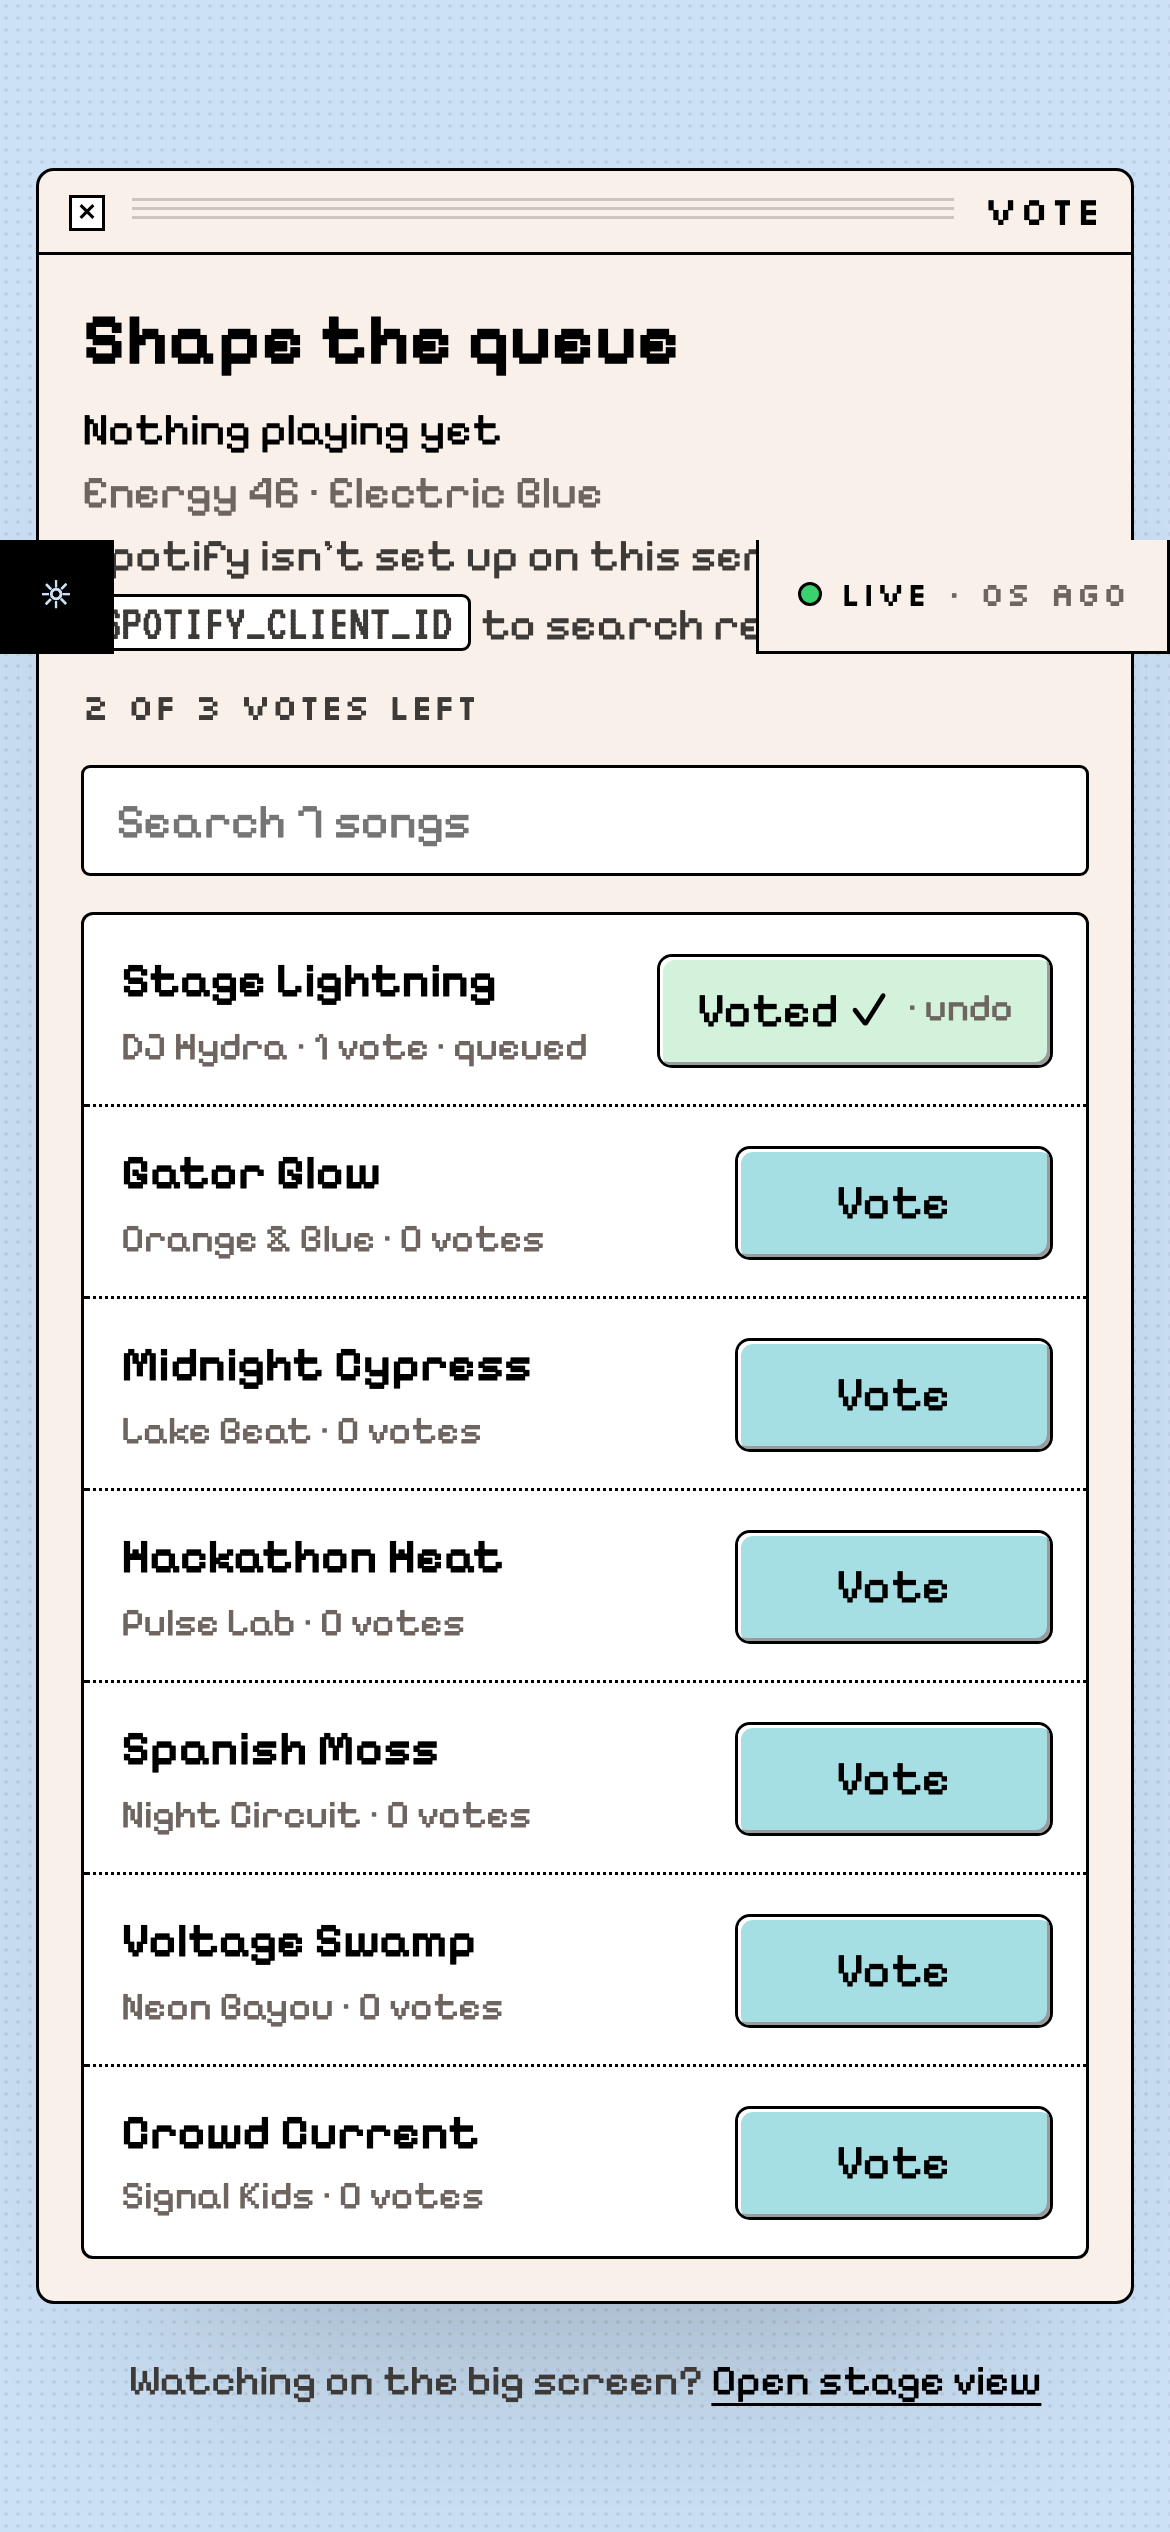
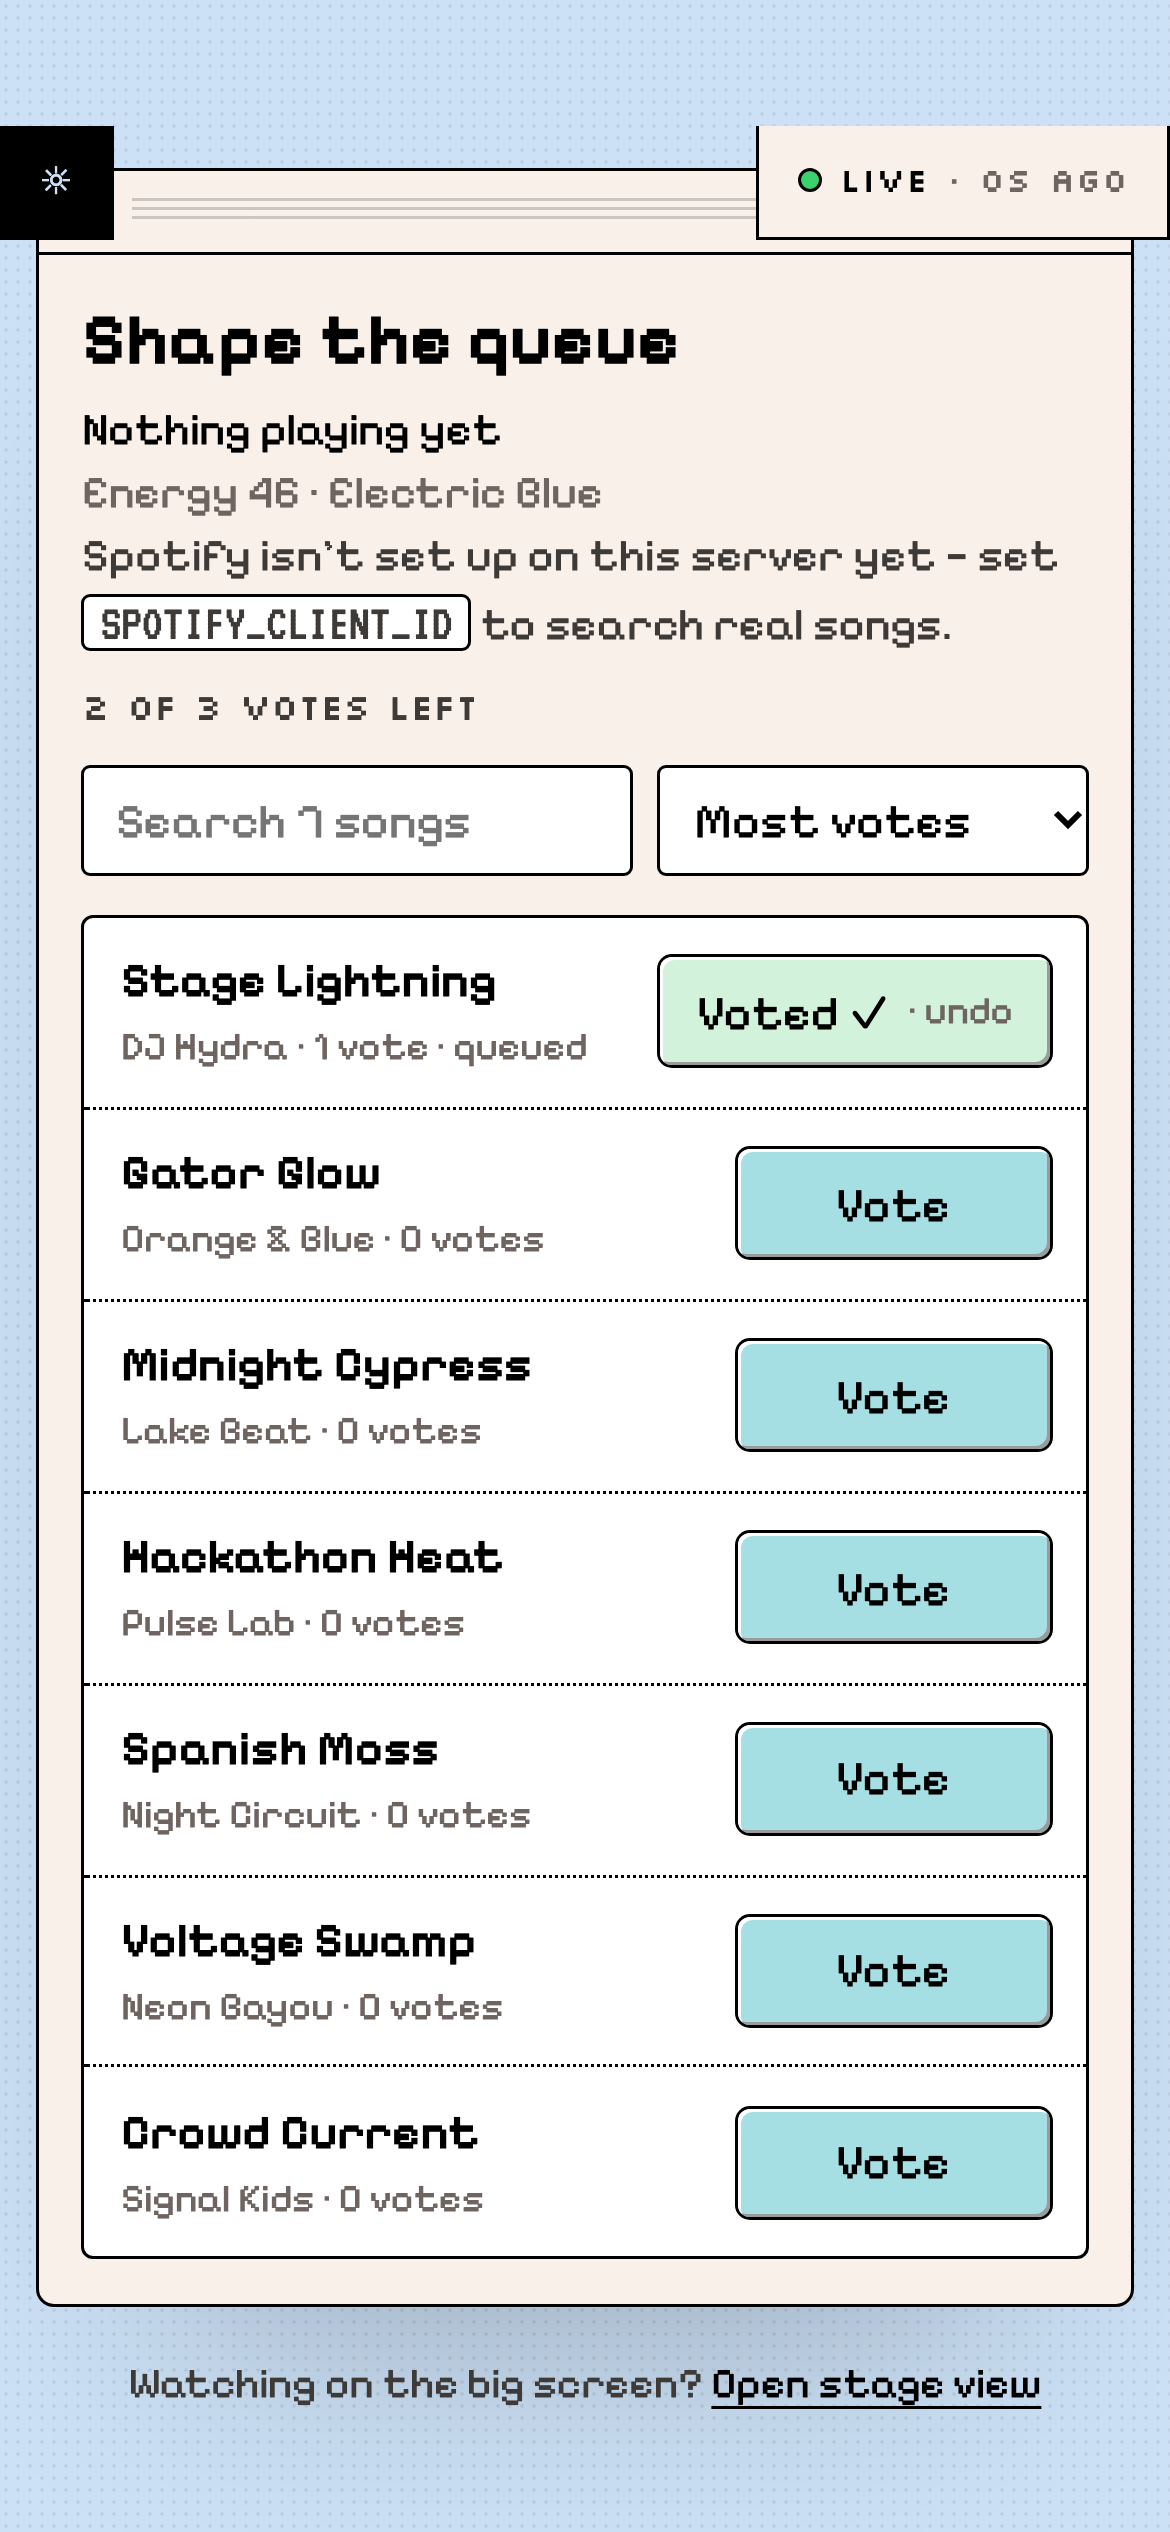
Projector: empty song bar when idle; attendee sort
- Big screen always shows the song bar and timer (0:00 / 0:00 when nothing
  is playing), in both layouts.
- Attendee vote list: Sort menu (most votes, title, artist, genre, newest)
  beside the search; the playing song stays on top.

diff --git a/apps/web/src/pages/JoinPage.tsx b/apps/web/src/pages/JoinPage.tsx
@@ -70,7 +70,8 @@ export function JoinPage() {
   const [search, setSearch] = useState("");
   const [page, setPage] = useState(0);
   const allTracks = state?.tracks ?? [];
-  const matching = filterAndRank(allTracks, search);
+  const [sort, setSort] = useState<VoteSort>("votes");
+  const matching = filterAndRank(allTracks, search, sort);
   const pages = Math.max(1, Math.ceil(matching.length / PAGE_SIZE));
   const pageIndex = Math.min(page, pages - 1);
   const tracks = matching.slice(pageIndex * PAGE_SIZE, (pageIndex + 1) * PAGE_SIZE);
@@ -211,18 +212,37 @@ export function JoinPage() {
           </p>
 
           {allTracks.length > 0 && (
-            <label className="vote-search">
-              <span className="visually-hidden">Search songs</span>
-              <input
-                type="search"
-                value={search}
-                onChange={(e) => {
-                  setSearch(e.target.value);
-                  setPage(0);
-                }}
-                placeholder={`Search ${allTracks.length} songs`}
-              />
-            </label>
+            <div className="vote-tools">
+              <label className="vote-search">
+                <span className="visually-hidden">Search songs</span>
+                <input
+                  type="search"
+                  value={search}
+                  onChange={(e) => {
+                    setSearch(e.target.value);
+                    setPage(0);
+                  }}
+                  placeholder={`Search ${allTracks.length} songs`}
+                />
+              </label>
+              <label className="vote-sort">
+                <span className="visually-hidden">Sort songs</span>
+                <select
+                  value={sort}
+                  onChange={(e) => {
+                    setSort(e.target.value as VoteSort);
+                    setPage(0);
+                  }}
+                  aria-label="Sort songs"
+                >
+                  {(Object.keys(VOTE_SORT_LABELS) as VoteSort[]).map((k) => (
+                    <option key={k} value={k}>
+                      {VOTE_SORT_LABELS[k]}
+                    </option>
+                  ))}
+                </select>
+              </label>
+            </div>
           )}
 
           <ul className="track-list panel">
@@ -349,24 +369,43 @@ function saveJoinedRun(sessionCode: string, run: number) {
 /** Songs per page in the attendee's vote list. */
 export const PAGE_SIZE = 15;
 
+export type VoteSort = "votes" | "title" | "artist" | "genre" | "newest";
+export const VOTE_SORT_LABELS: Record<VoteSort, string> = {
+  votes: "Most votes",
+  title: "Title A–Z",
+  artist: "Artist A–Z",
+  genre: "Genre",
+  newest: "Newest added",
+};
+
 /**
- * The attendee's list: songs matching the search (title, artist or genre), most votes first
- * (boosts break ties, then library order). The playing song stays at the top.
+ * The attendee's list: songs matching the search (title, artist or genre) in the chosen order —
+ * by default most votes first (boosts break ties, then library order). The playing song stays on top.
  */
 export function filterAndRank<T extends { title: string; artist: string; genre: string; votes: number; boosts: number; status: string }>(
   tracks: T[],
   search: string,
+  sort: VoteSort = "votes",
 ): T[] {
   const q = search.trim().toLowerCase();
+  const az = (x: string, y: string) => x.localeCompare(y, undefined, { sensitivity: "base" });
+  const order = (a: { t: T; i: number }, b: { t: T; i: number }) => {
+    switch (sort) {
+      case "title":
+        return az(a.t.title, b.t.title);
+      case "artist":
+        return az(a.t.artist, b.t.artist) || az(a.t.title, b.t.title);
+      case "genre":
+        return az(a.t.genre, b.t.genre) || az(a.t.title, b.t.title);
+      case "newest":
+        return b.i - a.i;
+      default:
+        return b.t.votes - a.t.votes || b.t.boosts - a.t.boosts;
+    }
+  };
   return tracks
     .map((t, i) => ({ t, i }))
     .filter(({ t }) => !q || `${t.title} ${t.artist} ${t.genre}`.toLowerCase().includes(q))
-    .sort(
-      (a, b) =>
-        Number(b.t.status === "playing") - Number(a.t.status === "playing") ||
-        b.t.votes - a.t.votes ||
-        b.t.boosts - a.t.boosts ||
-        a.i - b.i,
-    )
+    .sort((a, b) => Number(b.t.status === "playing") - Number(a.t.status === "playing") || order(a, b) || a.i - b.i)
     .map(({ t }) => t);
 }

diff --git a/apps/web/src/pages/StagePage.tsx b/apps/web/src/pages/StagePage.tsx
@@ -174,8 +174,8 @@ export const fmtClock = (ms: number) => {
 };
 
 /**
- * Progress of the current song with a timer (elapsed / length), from the player's reports. Shown
- * while a song is playing or paused; hidden otherwise.
+ * Progress of the current song with a timer (elapsed / length), from the player's reports. Always
+ * shown: empty at 0:00 / 0:00 when nothing is playing, so the screen doesn't jump around.
  */
 function SongProgress({ state }: { state: import("@crowdpulse/shared").SessionState | null }) {
   const [now, setNow] = useState(Date.now());
@@ -184,19 +184,24 @@ function SongProgress({ state }: { state: import("@crowdpulse/shared").SessionSt
     return () => window.clearInterval(t);
   }, []);
   const pb = state?.playback;
-  if (!pb || !pb.durationMs) return null;
+  const dur = pb?.durationMs ?? 0;
   const elapsed =
-    pb.status === "paused" ? (pb.pausedPositionMs ?? 0) : pb.status === "playing" && pb.startedAt ? now - Date.parse(pb.startedAt) : null;
-  if (elapsed === null) return null;
-  const pos = Math.min(elapsed, pb.durationMs);
+    !pb || !dur
+      ? 0
+      : pb.status === "paused"
+        ? (pb.pausedPositionMs ?? 0)
+        : pb.status === "playing" && pb.startedAt
+          ? now - Date.parse(pb.startedAt)
+          : 0;
+  const pos = dur ? Math.min(Math.max(0, elapsed), dur) : 0;
   return (
     <div className="stage-progress">
       <div className="song-progress" aria-hidden>
-        <div style={{ width: `${(pos / pb.durationMs) * 100}%` }} />
+        <div style={{ width: `${dur ? (pos / dur) * 100 : 0}%` }} />
       </div>
-      <span className="stage-timer" aria-label={`${fmtClock(pos)} of ${fmtClock(pb.durationMs)}`}>
-        {fmtClock(pos)} / {fmtClock(pb.durationMs)}
-        {pb.status === "paused" && <em> · paused</em>}
+      <span className="stage-timer" aria-label={dur ? `${fmtClock(pos)} of ${fmtClock(dur)}` : "Nothing playing"}>
+        {fmtClock(pos)} / {fmtClock(dur)}
+        {pb?.status === "paused" && <em> · paused</em>}
       </span>
     </div>
   );

diff --git a/apps/web/src/pages/JoinPage.test.ts b/apps/web/src/pages/JoinPage.test.ts
@@ -27,3 +27,20 @@ describe("attendee vote list", () => {
     expect(PAGE_SIZE).toBe(15);
   });
 });
+
+describe("attendee sort", () => {
+  const list = [t("b song", 1, { artist: "Zed", genre: "pop" }), t("A song", 5, { artist: "amy", genre: "house" }), t("c song", 0, { artist: "Bob", genre: "edm", status: "playing" })];
+  it("sorts by title, artist, genre or newest, keeping the playing song first", () => {
+    const titles = (s: Parameters<typeof filterAndRank>[2]) => filterAndRank(list, "", s).map((x) => x.title);
+    expect(titles("votes")).toEqual(["c song", "A song", "b song"]);
+    expect(titles("title")).toEqual(["c song", "A song", "b song"]);
+    expect(titles("artist")).toEqual(["c song", "A song", "b song"]);
+    expect(titles("genre")).toEqual(["c song", "A song", "b song"]);
+    expect(titles("newest")).toEqual(["c song", "A song", "b song"]);
+    const notPlaying = list.map((x) => ({ ...x, status: "open" }));
+    expect(filterAndRank(notPlaying, "", "newest").map((x) => x.title)).toEqual(["c song", "A song", "b song"]);
+    expect(filterAndRank(notPlaying, "", "artist").map((x) => x.title)).toEqual(["A song", "c song", "b song"]);
+    expect(filterAndRank(notPlaying, "", "genre").map((x) => x.title)).toEqual(["c song", "A song", "b song"]);
+    expect(filterAndRank(notPlaying, "", "title").map((x) => x.title)).toEqual(["A song", "b song", "c song"]);
+  });
+});

diff --git a/apps/web/e2e/core-loop.spec.ts b/apps/web/e2e/core-loop.spec.ts
@@ -277,3 +277,9 @@ test("With crowd energy off, the projector shows a quiet screen: song, QR code a
   await request.post("/api/host/sessions/demo/appearance", { headers: host, data: { preset: "sky", mode: "light", showEnergy: true } });
   await expect(stage.locator(".energy-block")).toHaveCount(1);
 });
+
+test("The projector shows an empty song bar (0:00 / 0:00) when nothing is playing", async ({ browser }) => {
+  const stage = await openStage(browser);
+  await expect(stage.locator(".stage-timer")).toHaveText("0:00 / 0:00");
+  await expect(stage.locator(".song-progress")).toBeVisible();
+});

diff --git a/apps/web/src/styles.css b/apps/web/src/styles.css
@@ -3041,3 +3041,27 @@ button.menubar-tab.menubar-action {
     grid-template-columns: 1fr;
   }
 }
+
+/* Attendee: search + sort on one row. */
+.vote-tools {
+  display: flex;
+  gap: 0.5rem;
+  align-items: stretch;
+  margin-top: 0.6rem;
+}
+
+.vote-tools .vote-search {
+  flex: 1;
+  min-width: 0;
+  margin: 0;
+}
+
+.vote-sort select {
+  height: 100%;
+  padding: 0.45rem 0.5rem;
+  border: 1px solid var(--line);
+  border-radius: 3px;
+  background: var(--paper);
+  color: var(--ink);
+  font: 16px var(--font-ui); /* 16px stops iOS zooming in on focus */
+}
